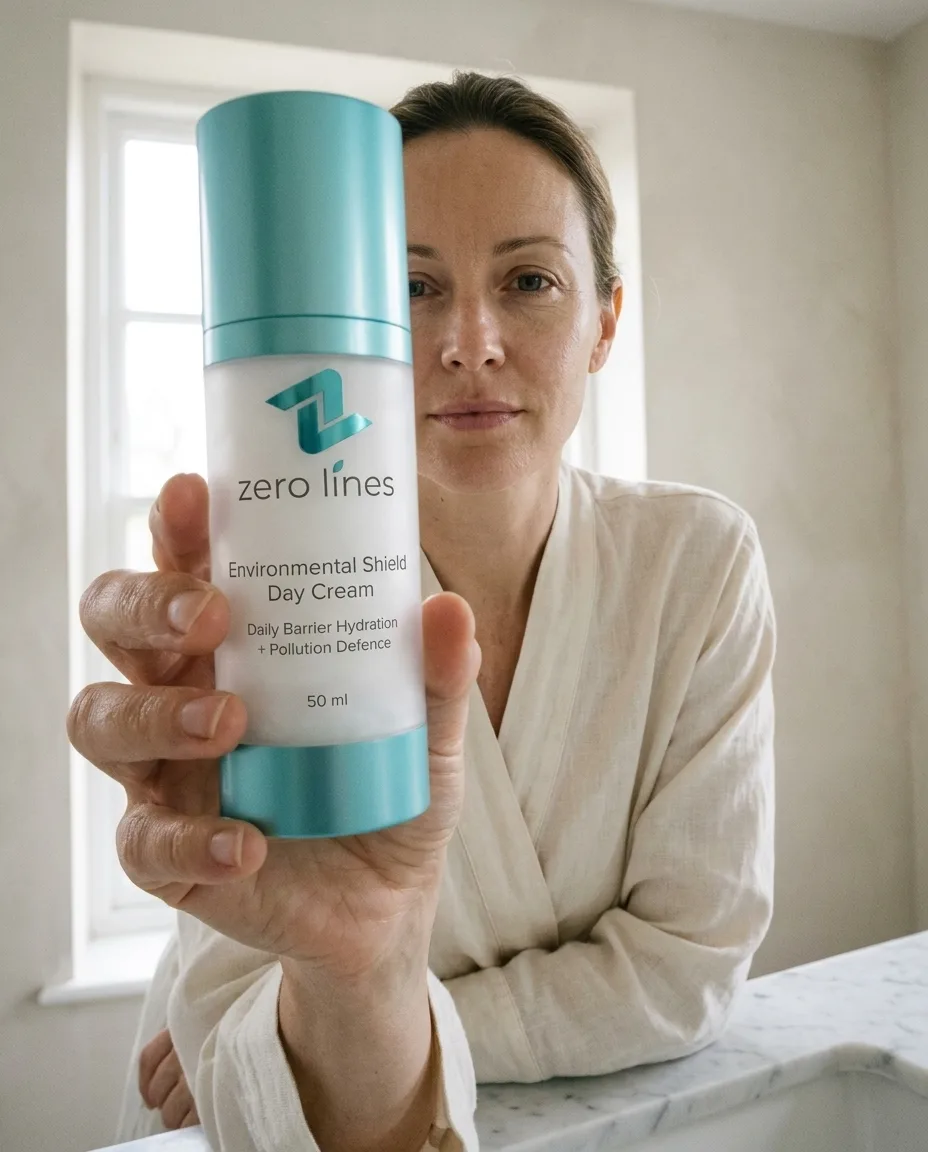
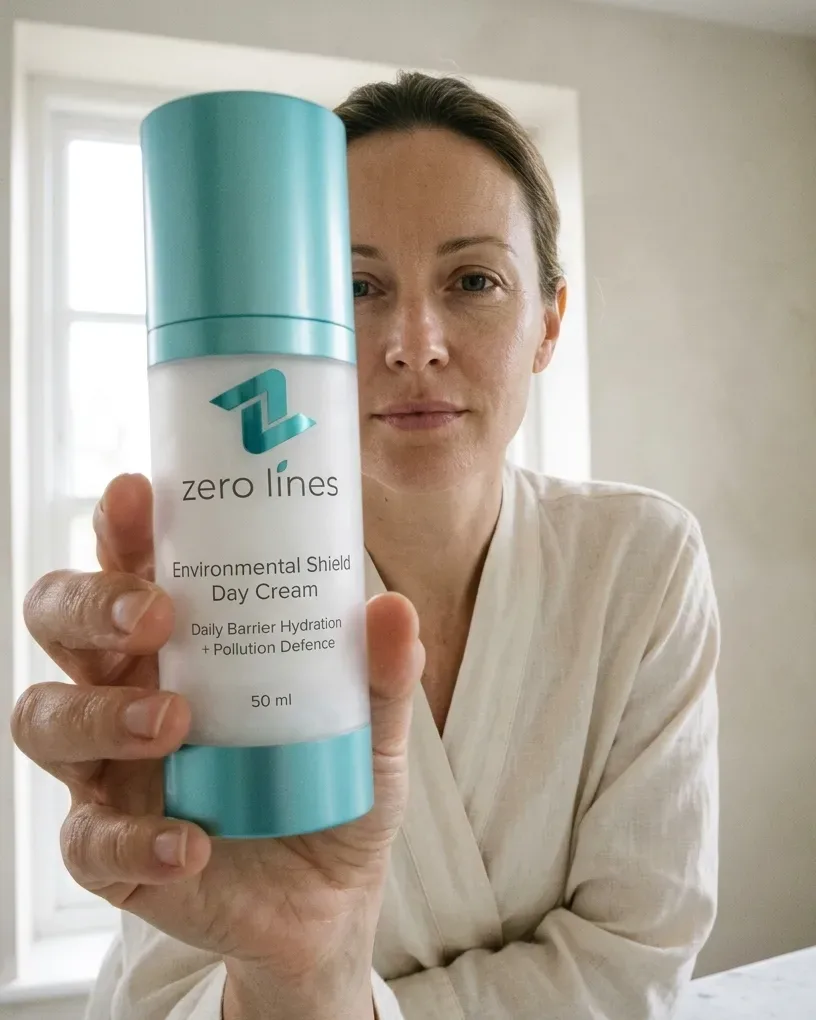
fix: the applicator no longer carries the name we retired
The visual audit found the product's most-shown photograph printing
"Precision Collagen Activation Syringe" crisply along the barrel — a name
dropped weeks ago, on the shot four journal articles use and the one the
product page hands to search engines as its schema image. The barrel now
reads Precision Collagen Renewal Line Corrector; nothing else in the frame
was touched.

The Formulations hero had a third hand: four curled fingers behind the robe
at the lower left, belonging to neither of her arms. Cropped out, and the
tighter frame reads better than the original.

The day cream page showed the same bottle twice in a row, the second time
captioned as the carton it ships in. There is a carton now, printed in the
same language as the refill: keyline border, wordmark, name, 50 ml.

diff --git a/blog/zero-lines-protocol.html b/blog/zero-lines-protocol.html
@@ -233,7 +233,7 @@
       <p>It is formulated to support collagen synthesis over a sustained programme of use rather than to blur a line overnight. The intended difference is structural: skin that feels firmer, holds hydration better, and bounces back when pressed.</p>
 
       <div class="zl-blog-product-box" data-reveal>
-        <img src="/assets/img/products/product-line-corrector-hero.webp" alt="Precision Collagen Renewal Line Corrector" width="1248" height="832" loading="lazy">
+        <img src="/assets/img/products/product-line-corrector-hero.webp" alt="Precision Collagen Renewal Line Corrector" width="1264" height="848" loading="lazy">
         <div class="zl-blog-product-box-content">
           <h3>Precision Collagen Renewal Line Corrector</h3>
           <p>Placed along an expression line, the skin looks visibly smoother within minutes and holds that look through the day. Underneath, consistent weekly use is designed to support the skin’s own structure, so lines have less to return to.</p>
@@ -313,7 +313,7 @@
       <p>Which is the point. The immediate effect — lines looking visibly smoother within minutes, holding through the day — is the half some people will only ever want, and the Refill exists so they can keep having exactly that, without buying the applicator again. At weekly use, roughly one a year.</p>
 
       <div class="zl-blog-product-box" data-reveal>
-        <img src="/assets/img/products/product-line-corrector.webp" alt="Precision Collagen Renewal Refill" width="928" height="1152" loading="lazy">
+        <img src="/assets/img/products/product-line-corrector.webp" alt="Precision Collagen Renewal Line Corrector" width="928" height="1152" loading="lazy">
         <div class="zl-blog-product-box-content">
           <h3>Precision Collagen Renewal Refill</h3>
           <p>The same immediate effect, whenever you want it — lines looking visibly smoother within minutes, holding through the day. The refill exists so that effect need never run out.</p>

diff --git a/blog/complete-guide-skin-aging.html b/blog/complete-guide-skin-aging.html
@@ -214,7 +214,7 @@
       <p>This is why simply applying collagen to the surface rarely helps. The molecule is <a href="/blog/hydrolyzed-collagen-myth-miracle.html">too large to penetrate</a>, and even if it could, it wouldn't restore the organisation of the existing matrix. What works is signalling — sending molecules small enough to reach the fibroblasts and remind them what they're supposed to do.</p>
 
       <div class="zl-blog-product-box" data-reveal>
-        <img src="/assets/img/products/product-line-corrector-hero.webp" alt="Precision Collagen Renewal Line Corrector" width="1248" height="832" loading="lazy">
+        <img src="/assets/img/products/product-line-corrector-hero.webp" alt="Precision Collagen Renewal Line Corrector" width="1264" height="848" loading="lazy">
         <div class="zl-blog-product-box-content">
           <h3>Precision Collagen Renewal Line Corrector</h3>
           <p>Placed along an expression line, the skin looks visibly smoother within minutes and holds that look through the day. Underneath, consistent weekly use is designed to support the skin’s own structure, so lines have less to return to.</p>

diff --git a/blog/collagen-decline-biological-clock.html b/blog/collagen-decline-biological-clock.html
@@ -209,7 +209,7 @@
       <p>The formulation is meant to support the skin's own collagen synthesis rather than fill a line for one evening. The aim is structural rather than cosmetic: skin that feels firmer and more resilient, and less prone to the "crepey" texture of advanced collagen loss.</p>
 
       <div class="zl-blog-product-box" data-reveal>
-        <img src="/assets/img/products/product-line-corrector-hero.webp" alt="Precision Collagen Renewal Line Corrector" width="1248" height="832" loading="lazy">
+        <img src="/assets/img/products/product-line-corrector-hero.webp" alt="Precision Collagen Renewal Line Corrector" width="1264" height="848" loading="lazy">
         <div class="zl-blog-product-box-content">
           <h3>Precision Collagen Renewal Line Corrector</h3>
           <p>Placed along an expression line, the skin looks visibly smoother within minutes and holds that look through the day. Underneath, consistent weekly use is designed to support the skin’s own structure, so lines have less to return to.</p>

diff --git a/products/day-cream/index.html b/products/day-cream/index.html
@@ -544,10 +544,10 @@
         </div>
 
         <div class="zl-media zl-media--square zl-scrub" style="--reveal-delay:260ms;margin-top:clamp(.75rem,1.6vw,1.25rem);background:#fff">
-          <img src="/assets/img/products/product-day-cream.webp"
-               alt="The carton it ships in: a warm white box edged in sea-teal, marked Environmental Shield Day Cream, 50 ml"
+          <img src="/assets/img/products/box-day-cream.webp"
+               alt="The carton it ships in: a warm off-white box edged in sea-teal, marked Environmental Shield Day Cream, 50 ml"
                loading="lazy"
-               style="object-fit:cover;padding:clamp(1.5rem,6%,3.25rem)" width="928" height="1152">
+               style="object-fit:contain;padding:clamp(1.5rem,6%,3.25rem)" width="1024" height="1024">
         </div>
 
         <div data-reveal style="--reveal-delay:320ms;margin-top:2rem;padding-top:1.25rem;border-top:1px solid var(--rule);display:flex;align-items:baseline;gap:1.25rem">

diff --git a/blog/hydrolyzed-collagen-myth-miracle.html b/blog/hydrolyzed-collagen-myth-miracle.html
@@ -221,7 +221,7 @@
       </ol>
 
       <div class="zl-blog-product-box" data-reveal>
-        <img src="/assets/img/products/product-line-corrector-hero.webp" alt="Precision Collagen Renewal Line Corrector" width="1248" height="832" loading="lazy">
+        <img src="/assets/img/products/product-line-corrector-hero.webp" alt="Precision Collagen Renewal Line Corrector" width="1264" height="848" loading="lazy">
         <div class="zl-blog-product-box-content">
           <h3>Precision Collagen Renewal Line Corrector</h3>
           <p>Placed along an expression line, the skin looks visibly smoother within minutes and holds that look through the day. Underneath, consistent weekly use is designed to support the skin’s own structure, so lines have less to return to.</p>

diff --git a/products/index.html b/products/index.html
@@ -322,7 +322,7 @@
         <div class="zl-media" data-reveal="wipe" style="--reveal-delay:220ms;background:var(--bone-2);aspect-ratio:4/5">
           <img src="/assets/img/people/formulations-hero-woman.webp"
                alt="A woman in her thirties in an ivory linen robe at a white marble bathroom vanity, window light behind her shoulder, holding the Zero Lines Environmental Shield Day Cream up toward the camera with its label facing forward."
-               fetchpriority="high" width="928" height="1152" loading="lazy">
+               fetchpriority="high" width="816" height="1020" loading="lazy">
         </div>
       </div>
     </div>
